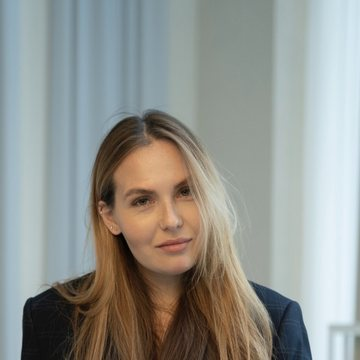
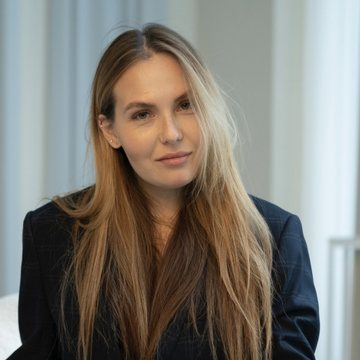
diana: соцсети, новые фоны, тёмные отзывы, фавикон
Подвал: значки ВКонтакте, Instagram, WhatsApp, MAX и Telegram (пока
неактивные) и новая фотография фона из макета. Блок «Готовы к
преображению» — новый фон с ресепшена. Отзывы на светлом блоке стали
тёмными карточками с белым текстом, надзаголовки секций выровнены по
центру. Волна между блоками больше не перекрывается соседней секцией.
Аватары мастеров перекадрированы, добавлена иконка сайта, из окна
записи убрана ссылка «в новой вкладке».

diff --git a/site/diana/index.html b/site/diana/index.html
@@ -9,6 +9,7 @@
   <link rel="preconnect" href="https://fonts.gstatic.com" crossorigin />
   <link href="https://fonts.googleapis.com/css2?family=Cormorant+Garamond:wght@300;400;500&family=Jost:wght@200;300;400&display=swap" rel="stylesheet" />
   <link rel="preload" as="image" href="assets/hero-bg.jpg" />
+  <link rel="icon" href="assets/favicon.svg" type="image/svg+xml" />
   <link rel="stylesheet" href="diana.css" />
 </head>
 <body class="is-home">
@@ -212,6 +213,24 @@
             <li><a href="tel:+79999829725">+7 (999) 982-97-25</a></li>
             <li>ежедневно, 9:00 — 21:00</li>
             <li><a href="https://n99533.yclients.com/company/112132/personal/select-master?o=" target="_blank" rel="noopener">Онлайн-запись</a></li>
+          </ul>
+          <p class="eyebrow eyebrow--soc">Мы в соцсетях</p>
+          <ul class="soc" aria-label="Профили салона в соцсетях">
+            <li><span class="soc__i" role="img" aria-label="ВКонтакте" title="ВКонтакте — скоро">
+              <svg viewBox="0 0 24 24"><path d="M12.8 16.9c-5 0-8.2-3.6-8.3-9.5h2.6c.1 4.4 2.1 6.2 3.6 6.6V7.4h2.4v3.7c1.4-.2 2.9-1.8 3.4-3.7h2.4c-.4 2.3-1.9 3.9-3 4.6 1.1.5 2.8 1.9 3.4 4.9h-2.6c-.5-1.6-1.9-2.9-3.6-3.1v3.1h-.3z"/></svg>
+            </span></li>
+            <li><span class="soc__i" role="img" aria-label="Instagram" title="Instagram — скоро">
+              <svg viewBox="0 0 24 24"><path d="M12 7.4a4.6 4.6 0 100 9.2 4.6 4.6 0 000-9.2zm0 7.6a3 3 0 110-6 3 3 0 010 6zm5.9-7.8a1.1 1.1 0 11-2.2 0 1.1 1.1 0 012.2 0zM16.3 3.5H7.7A4.2 4.2 0 003.5 7.7v8.6a4.2 4.2 0 004.2 4.2h8.6a4.2 4.2 0 004.2-4.2V7.7a4.2 4.2 0 00-4.2-4.2zm2.6 12.8a2.6 2.6 0 01-2.6 2.6H7.7a2.6 2.6 0 01-2.6-2.6V7.7a2.6 2.6 0 012.6-2.6h8.6a2.6 2.6 0 012.6 2.6v8.6z"/></svg>
+            </span></li>
+            <li><span class="soc__i" role="img" aria-label="WhatsApp" title="WhatsApp — скоро">
+              <svg viewBox="0 0 24 24"><path d="M12 3.6a8.3 8.3 0 00-7.1 12.6L3.8 20.4l4.3-1.1A8.3 8.3 0 1012 3.6zm0 15a6.6 6.6 0 01-3.4-.9l-.3-.2-2.5.7.7-2.4-.2-.3A6.7 6.7 0 1112 18.6zm3.8-4.9c-.2-.1-1.2-.6-1.4-.7-.2-.1-.3-.1-.5.1l-.6.8c-.1.1-.2.2-.4.1a5.4 5.4 0 01-2.7-2.3c-.2-.3.2-.3.5-1 .1-.1 0-.3 0-.4l-.7-1.5c-.2-.4-.4-.4-.5-.4h-.4a.9.9 0 00-.6.3 2.5 2.5 0 00-.8 1.8 4.4 4.4 0 00.9 2.3 9.9 9.9 0 003.8 3.3c1.4.5 1.7.4 2.1.4a2.1 2.1 0 001.4-1 1.7 1.7 0 00.1-1c0-.1-.2-.2-.4-.3z"/></svg>
+            </span></li>
+            <li><span class="soc__i" role="img" aria-label="MAX" title="MAX — скоро">
+              <svg viewBox="0 0 24 24"><path d="M12 3.2a8.8 8.8 0 100 17.6 8.8 8.8 0 000-17.6zm0 1.6a7.2 7.2 0 110 14.4 7.2 7.2 0 010-14.4zM8.2 15.6V8.4h1.5l2.3 3.6 2.3-3.6h1.5v7.2h-1.5v-4.5L12 14.4l-2.3-3.3v4.5H8.2z"/></svg>
+            </span></li>
+            <li><span class="soc__i" role="img" aria-label="Telegram" title="Telegram — скоро">
+              <svg viewBox="0 0 24 24"><path d="M20.6 4.4L3.9 10.9c-.9.3-.9.9-.2 1.1l4.3 1.3 1.6 4.9c.2.5.4.6.8.4l2.4-1.8 4.4 3.2c.5.3.9.1 1-.5l2.9-13.5c.2-.7-.3-1-1-.7zM8.8 13.9l9.3-5.9c.4-.3.8-.1.5.2l-7.9 7.2-.3 3.1-1.6-4.6z"/></svg>
+            </span></li>
           </ul>
         </div>
         <div>

diff --git a/site/diana/diana.css b/site/diana/diana.css
@@ -749,3 +749,45 @@ a.rev__name:hover{color:var(--beige);border-bottom-color:var(--beige-dim)}
   .anim{opacity:1;transform:none;filter:none;transition:none}
   .team__card:hover .team__ava{animation:none}
 }
+
+
+/* =================== ДОРАБОТКИ =================== */
+/* надзаголовки секций — по центру (у p был лимит ширины) */
+.sec__head .eyebrow,.sec__head p{max-width:none;margin-left:auto;margin-right:auto}
+
+/* блок «Готовы к преображению» — новый фон из макета */
+.cta{background-image:url('assets/cta-bg.jpg');background-position:left center}
+.cta::after{background:linear-gradient(90deg,rgba(20,12,10,.28),rgba(20,12,10,.9) 46%)}
+
+/* отзывы на светлом фоне — карточки тёмные, текст белый */
+.sec--reviews .rev{
+  background:rgba(32,22,19,.94);border:1px solid rgba(216,184,119,.28);
+  box-shadow:0 16px 38px rgba(70,48,32,.18);
+}
+.sec--reviews .rev__text{color:rgba(255,255,255,.94)}
+.sec--reviews .rev__stars{color:#d8b877}
+.sec--reviews .rev__name{color:#f4ece1}
+.sec--reviews .rev__date{color:rgba(246,239,230,.6)}
+.sec--reviews .rev__more{color:var(--gold-soft)}
+.sec--reviews .rev__ava{background:#3b2b23}
+.sec--reviews .rev:hover{box-shadow:0 22px 48px rgba(70,48,32,.26)}
+
+/* соцсети в подвале (пока неактивны) */
+.eyebrow--soc{margin:30px 0 14px}
+.ftr .soc{list-style:none;margin:0;padding:0;display:flex;flex-wrap:wrap;gap:12px;font-size:0}
+.soc__i{
+  width:38px;height:38px;border-radius:50%;
+  display:grid;place-items:center;
+  border:1px solid rgba(216,184,119,.32);color:var(--gold-soft);
+  opacity:.55;transition:.25s;cursor:default;
+}
+.soc__i svg{width:17px;height:17px;fill:currentColor}
+.soc__i:hover{opacity:.9;border-color:var(--gold-soft)}
+
+/* стык волны — без просвета */
+.sec--light{position:relative;z-index:2}
+.wave{z-index:3}
+.wave{left:-2px;right:-2px}
+.wave--top{transform:translateY(-100%)}
+.wave--bottom{transform:translateY(100%) scaleY(-1)}
+.wave svg{margin-bottom:-1px}

diff --git a/site/diana/diana.js b/site/diana/diana.js
@@ -105,7 +105,6 @@ document.addEventListener('DOMContentLoaded', function () {
     '<div class="modal__box">' +
       '<div class="modal__bar">' +
         '<span class="modal__title">Онлайн-запись</span>' +
-        '<a class="modal__new" href="' + BOOKING_URL + '" target="_blank" rel="noopener">В новой вкладке</a>' +
         '<button class="modal__close" type="button">Закрыть</button>' +
       '</div>' +
       '<div class="modal__body">' +

diff --git a/site/diana/about.html b/site/diana/about.html
@@ -8,6 +8,7 @@
   <link rel="preconnect" href="https://fonts.googleapis.com" />
   <link rel="preconnect" href="https://fonts.gstatic.com" crossorigin />
   <link href="https://fonts.googleapis.com/css2?family=Jost:wght@200;300;400&display=swap" rel="stylesheet" />
+  <link rel="icon" href="assets/favicon.svg" type="image/svg+xml" />
   <link rel="stylesheet" href="diana.css" />
 </head>
 <body>

diff --git a/site/diana/contacts.html b/site/diana/contacts.html
@@ -8,6 +8,7 @@
   <link rel="preconnect" href="https://fonts.googleapis.com" />
   <link rel="preconnect" href="https://fonts.gstatic.com" crossorigin />
   <link href="https://fonts.googleapis.com/css2?family=Jost:wght@200;300;400&display=swap" rel="stylesheet" />
+  <link rel="icon" href="assets/favicon.svg" type="image/svg+xml" />
   <link rel="stylesheet" href="diana.css" />
 </head>
 <body>

diff --git a/site/diana/gallery.html b/site/diana/gallery.html
@@ -8,6 +8,7 @@
   <link rel="preconnect" href="https://fonts.googleapis.com" />
   <link rel="preconnect" href="https://fonts.gstatic.com" crossorigin />
   <link href="https://fonts.googleapis.com/css2?family=Jost:wght@200;300;400&display=swap" rel="stylesheet" />
+  <link rel="icon" href="assets/favicon.svg" type="image/svg+xml" />
   <link rel="stylesheet" href="diana.css" />
 </head>
 <body>

diff --git a/site/diana/masters.html b/site/diana/masters.html
@@ -8,6 +8,7 @@
   <link rel="preconnect" href="https://fonts.googleapis.com" />
   <link rel="preconnect" href="https://fonts.gstatic.com" crossorigin />
   <link href="https://fonts.googleapis.com/css2?family=Jost:wght@200;300;400&display=swap" rel="stylesheet" />
+  <link rel="icon" href="assets/favicon.svg" type="image/svg+xml" />
   <link rel="stylesheet" href="diana.css" />
 </head>
 <body>

diff --git a/site/diana/promo.html b/site/diana/promo.html
@@ -8,6 +8,7 @@
   <link rel="preconnect" href="https://fonts.googleapis.com" />
   <link rel="preconnect" href="https://fonts.gstatic.com" crossorigin />
   <link href="https://fonts.googleapis.com/css2?family=Jost:wght@200;300;400&display=swap" rel="stylesheet" />
+  <link rel="icon" href="assets/favicon.svg" type="image/svg+xml" />
   <link rel="stylesheet" href="diana.css" />
 </head>
 <body>

diff --git a/site/diana/reviews.html b/site/diana/reviews.html
@@ -8,6 +8,7 @@
   <link rel="preconnect" href="https://fonts.googleapis.com" />
   <link rel="preconnect" href="https://fonts.gstatic.com" crossorigin />
   <link href="https://fonts.googleapis.com/css2?family=Jost:wght@200;300;400&display=swap" rel="stylesheet" />
+  <link rel="icon" href="assets/favicon.svg" type="image/svg+xml" />
   <link rel="stylesheet" href="diana.css" />
 </head>
 <body>

diff --git a/site/diana/services.html b/site/diana/services.html
@@ -8,6 +8,7 @@
   <link rel="preconnect" href="https://fonts.googleapis.com" />
   <link rel="preconnect" href="https://fonts.gstatic.com" crossorigin />
   <link href="https://fonts.googleapis.com/css2?family=Jost:wght@200;300;400&display=swap" rel="stylesheet" />
+  <link rel="icon" href="assets/favicon.svg" type="image/svg+xml" />
   <link rel="stylesheet" href="diana.css" />
 </head>
 <body>
